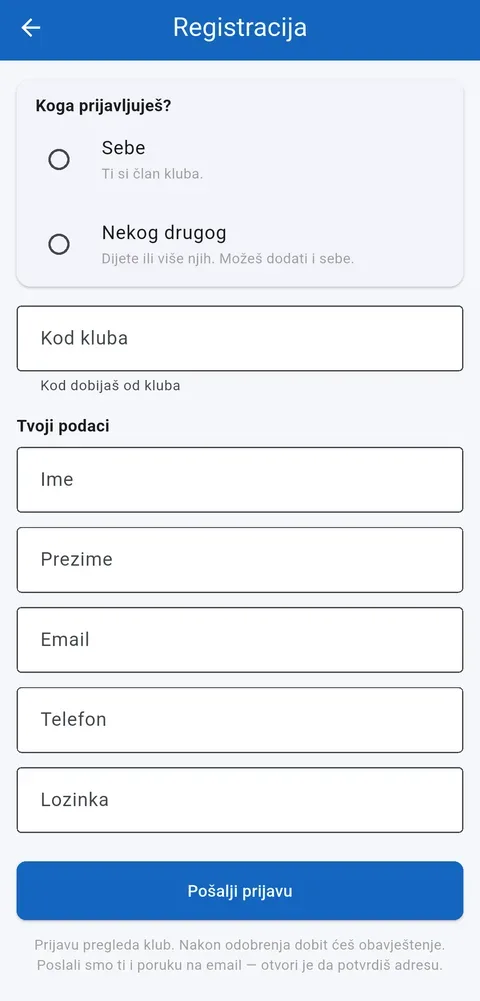
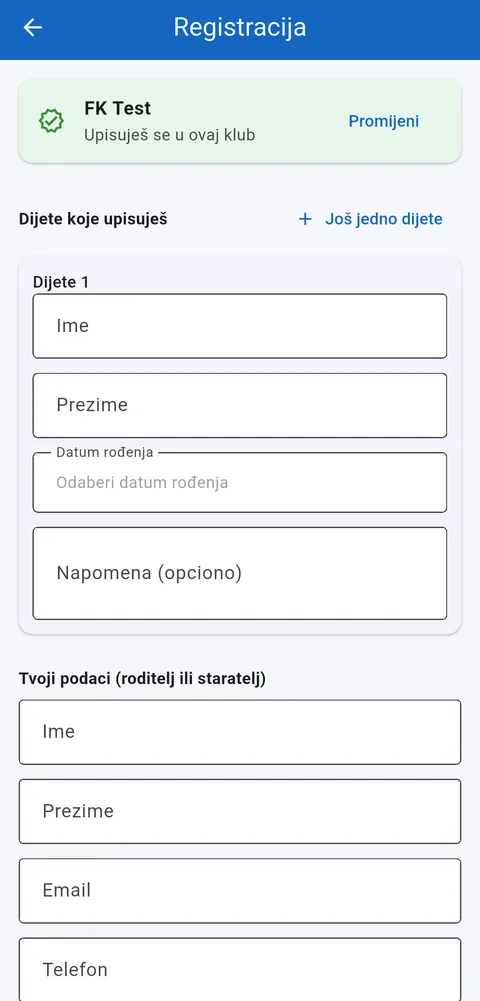
feat(uputstva): show the new sign-up form, the summary and a rejected registration
The parent steps followed the old form with "Sebe / Nekog drugog". Now: the code shows the club,
the child comes first with a date of birth, a summary before sending, and what a parent sees when
the club rejects a registration. One admin step for rejecting with a reason.

diff --git a/uputstva/index.html b/uputstva/index.html
@@ -174,33 +174,41 @@
   <section class="role wrap" id="roditelj">
     <div class="head">
       <span class="kicker">Za roditelje i članove</span>
-      <h2>Registracija i praćenje djeteta (ili sebe)</h2>
+      <h2>Upis djeteta i praćenje članarine</h2>
       <p>Prijava u klub ide preko koda koji dobijete od kluba. Nakon što admin odobri prijavu, imate uvid u raspored, prisustvo i uplate.</p>
     </div>
     <div class="steps">
       <article class="step">
-        <div class="shot"><img src="../img/uputstva/roditelj-01-obrazac-prazan.webp" loading="lazy" alt="Obrazac za registraciju: kod kluba i vaši podaci"></div>
-        <div class="cap"><span class="num">1</span><div><p>Otvorite "Registruj se" i unesite kod kluba koji ste dobili.</p></div></div>
+        <div class="shot"><img src="../img/uputstva/roditelj-01-obrazac-prazan.webp" loading="lazy" alt="Obrazac za registraciju sa nazivom kluba pronađenog po kodu"></div>
+        <div class="cap"><span class="num">1</span><div><p>Otvorite "Registruj se", unesite kod koji ste dobili od kluba i dodirnite "Dalje". Pojavi se naziv kluba — provjerite da je pravi.</p></div></div>
       </article>
       <article class="step">
-        <div class="shot"><img src="../img/uputstva/roditelj-02-obrazac-popunjen.webp" loading="lazy" alt="Popunjen obrazac sa podacima djeteta"></div>
-        <div class="cap"><span class="num">2</span><div><p>Odaberite "Nekog drugog" za dijete, ili "Sebe" ako se prijavljujete kao punoljetan član, i pošaljite prijavu.</p></div></div>
+        <div class="shot"><img src="../img/uputstva/roditelj-02-obrazac-popunjen.webp" loading="lazy" alt="Popunjen obrazac: prvo dijete, pa podaci roditelja"></div>
+        <div class="cap"><span class="num">2</span><div><p>Prvo upišite dijete, sa datumom rođenja, a ispod svoje podatke kao roditelj. Više djece dodajete preko "Još jedno dijete". U klubu za odrasle upisujete sebe.</p></div></div>
       </article>
       <article class="step">
-        <div class="shot"><img src="../img/uputstva/roditelj-03-na-cekanju.webp" loading="lazy" alt="Poruka da prijava čeka odobrenje kluba"></div>
-        <div class="cap"><span class="num">3</span><div><p>Prijava čeka odobrenje kluba. Obavještenje stiže čim je admin pregleda.</p></div></div>
+        <div class="shot"><img src="../img/uputstva/roditelj-02b-pregled.webp" loading="lazy" alt="Pregled prije slanja: klub, dijete i roditelj"></div>
+        <div class="cap"><span class="num">3</span><div><p>Prije slanja aplikacija pokaže koga upisujete. Ako nešto nije kako treba, dodirnite "Ispravi".</p></div></div>
+      </article>
+      <article class="step">
+        <div class="shot"><img src="../img/uputstva/roditelj-03-na-cekanju.webp" loading="lazy" alt="Prijava za dijete čeka odobrenje kluba"></div>
+        <div class="cap"><span class="num">4</span><div><p>Prijava čeka odobrenje kluba. Obavještenje stiže čim je admin pregleda.</p></div></div>
+      </article>
+      <article class="step">
+        <div class="shot"><img src="../img/uputstva/roditelj-03b-odbijeno.webp" loading="lazy" alt="Odbijena prijava sa razlogom i dugme Upiši dijete"></div>
+        <div class="cap"><span class="num">5</span><div><p>Ako klub odbije prijavu, vidite razlog. Nalog vam ostaje i dijete možete odmah upisati ponovo.</p></div></div>
       </article>
       <article class="step">
         <div class="shot"><img src="../img/uputstva/roditelj-04-pocetna.webp" loading="lazy" alt="Početna stranica sa statusom članarine i istorijom uplata"></div>
-        <div class="cap"><span class="num">4</span><div><p>Nakon odobrenja: status članarine, istorija uplata, i prebacivanje između djece ako ih ima više.</p></div></div>
+        <div class="cap"><span class="num">6</span><div><p>Nakon odobrenja: status članarine, istorija uplata, i prebacivanje između djece ako ih ima više.</p></div></div>
       </article>
       <article class="step">
         <div class="shot"><img src="../img/uputstva/roditelj-05-raspored.webp" loading="lazy" alt="Raspored sa dugmadima Dolazim i Ne dolazim"></div>
-        <div class="cap"><span class="num">5</span><div><p>U rasporedu potvrdite ili otkažite dolazak na trening ili utakmicu.</p></div></div>
+        <div class="cap"><span class="num">7</span><div><p>U rasporedu potvrdite ili otkažite dolazak na trening ili utakmicu.</p></div></div>
       </article>
       <article class="step">
         <div class="shot"><img src="../img/uputstva/roditelj-06-statistika.webp" loading="lazy" alt="Statistika prisustva sa procentom i brojem treninga"></div>
-        <div class="cap"><span class="num">6</span><div><p>Statistika prisustva pokazuje koliko je treninga odrađeno.</p></div></div>
+        <div class="cap"><span class="num">8</span><div><p>Statistika prisustva pokazuje koliko je treninga odrađeno.</p></div></div>
       </article>
     </div>
   </section>
@@ -259,20 +267,24 @@
         <div class="cap"><span class="num">4</span><div><p>Član je u klubu — roditelj odmah dobija obavještenje.</p></div></div>
       </article>
       <article class="step">
+        <div class="shot"><img src="../img/uputstva/admin-03b-odbij-dijalog.webp" loading="lazy" alt="Dijalog za odbijanje prijave sa izborom razloga"></div>
+        <div class="cap"><span class="num">5</span><div><p>Prijavu koja nije u redu odbijte i odaberite razlog, npr. ako je roditelj upisao sebe umjesto djeteta. Roditelj vidi razlog i može ispraviti prijavu.</p></div></div>
+      </article>
+      <article class="step">
         <div class="shot"><img src="../img/uputstva/admin-05-clanovi.webp" loading="lazy" alt="Spisak svih članova kluba sa statusom uplate"></div>
-        <div class="cap"><span class="num">5</span><div><p>Spisak svih članova, sa statusom uplate obojenim po boji.</p></div></div>
+        <div class="cap"><span class="num">6</span><div><p>Spisak svih članova, sa statusom uplate obojenim po boji.</p></div></div>
       </article>
       <article class="step">
         <div class="shot"><img src="../img/uputstva/admin-06-uplata-dijalog.webp" loading="lazy" alt="Obrazac za brzu uplatu sa iznosom i metodom plaćanja"></div>
-        <div class="cap"><span class="num">6</span><div><p>Evidentirajte uplatu u par dodira — iznos se sam predloži iz plana.</p></div></div>
+        <div class="cap"><span class="num">7</span><div><p>Evidentirajte uplatu u par dodira — iznos se sam predloži iz plana.</p></div></div>
       </article>
       <article class="step">
         <div class="shot"><img src="../img/uputstva/admin-07-uplata-potvrdjena.webp" loading="lazy" alt="Potvrda uplate i ažuriran prihod kluba"></div>
-        <div class="cap"><span class="num">7</span><div><p>Prihod i status člana se ažuriraju odmah.</p></div></div>
+        <div class="cap"><span class="num">8</span><div><p>Prihod i status člana se ažuriraju odmah.</p></div></div>
       </article>
       <article class="step">
         <div class="shot"><img src="../img/uputstva/admin-08-nova-aktivnost.webp" loading="lazy" alt="Obrazac za novu aktivnost: grupa, naslov, tip, datum i vrijeme"></div>
-        <div class="cap"><span class="num">8</span><div><p>Zakažite trening ili utakmicu — svi u grupi vide isti raspored.</p></div></div>
+        <div class="cap"><span class="num">9</span><div><p>Zakažite trening ili utakmicu — svi u grupi vide isti raspored.</p></div></div>
       </article>
     </div>
   </section>
